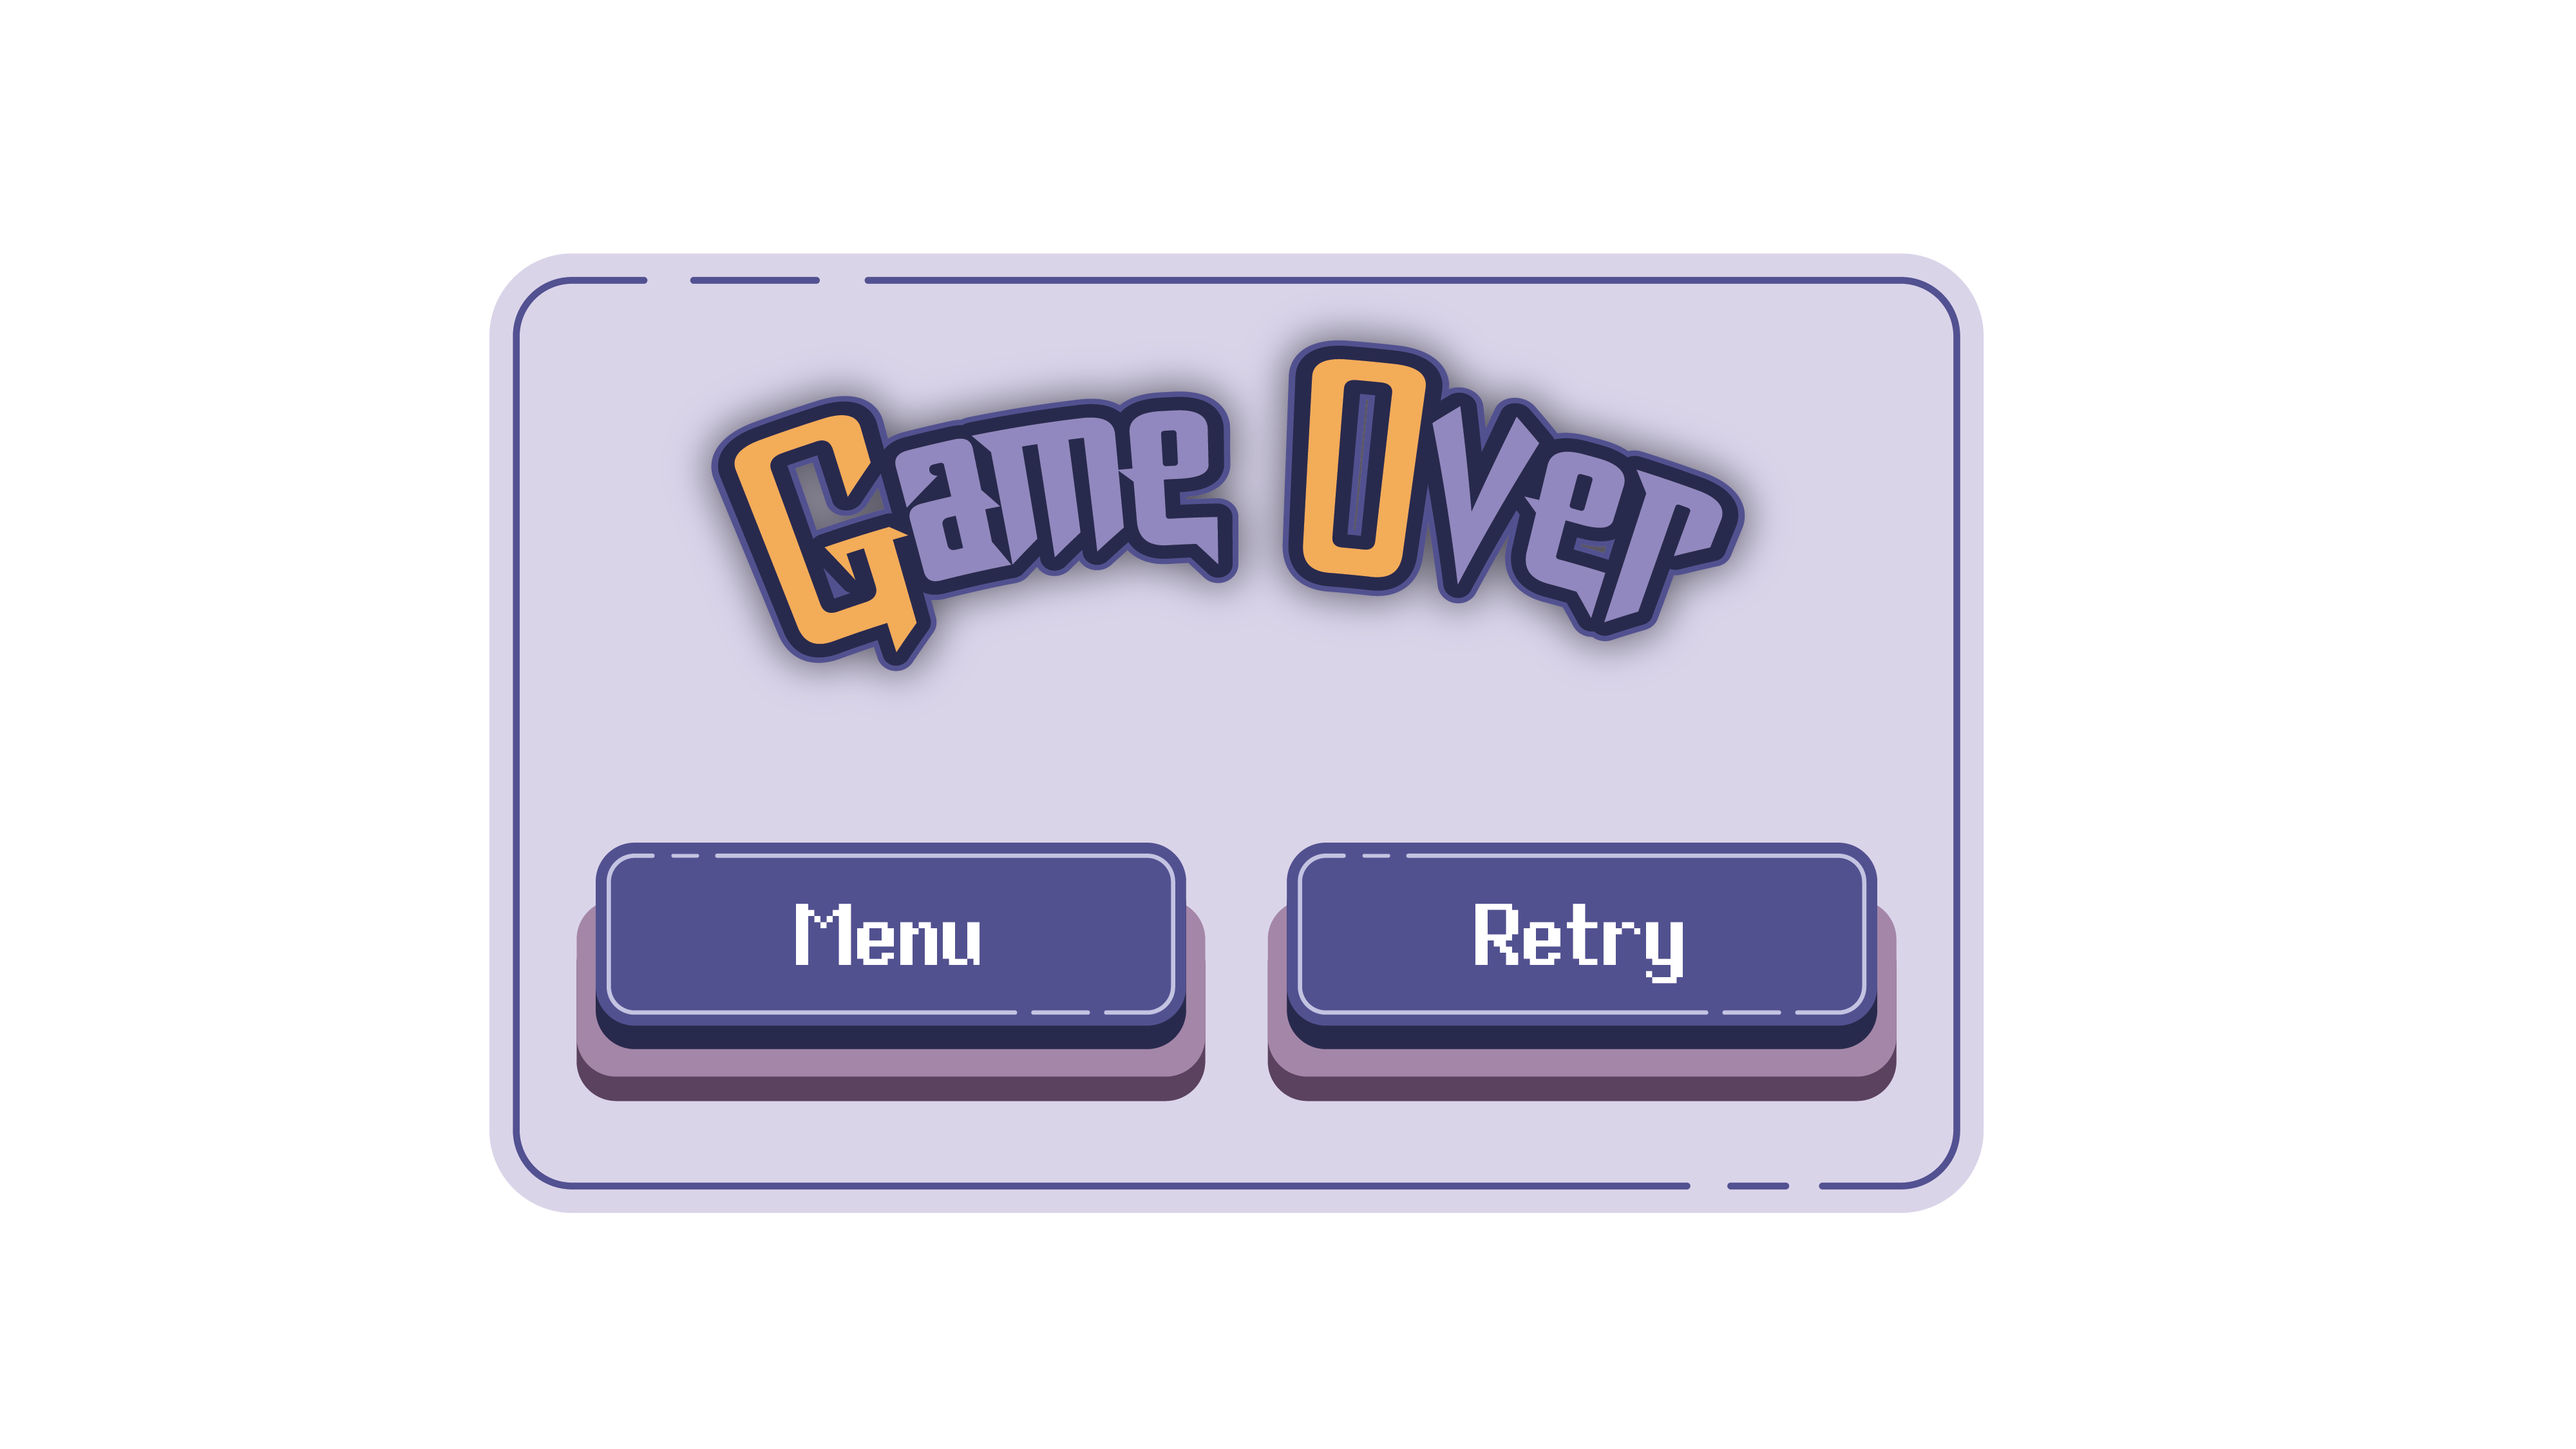
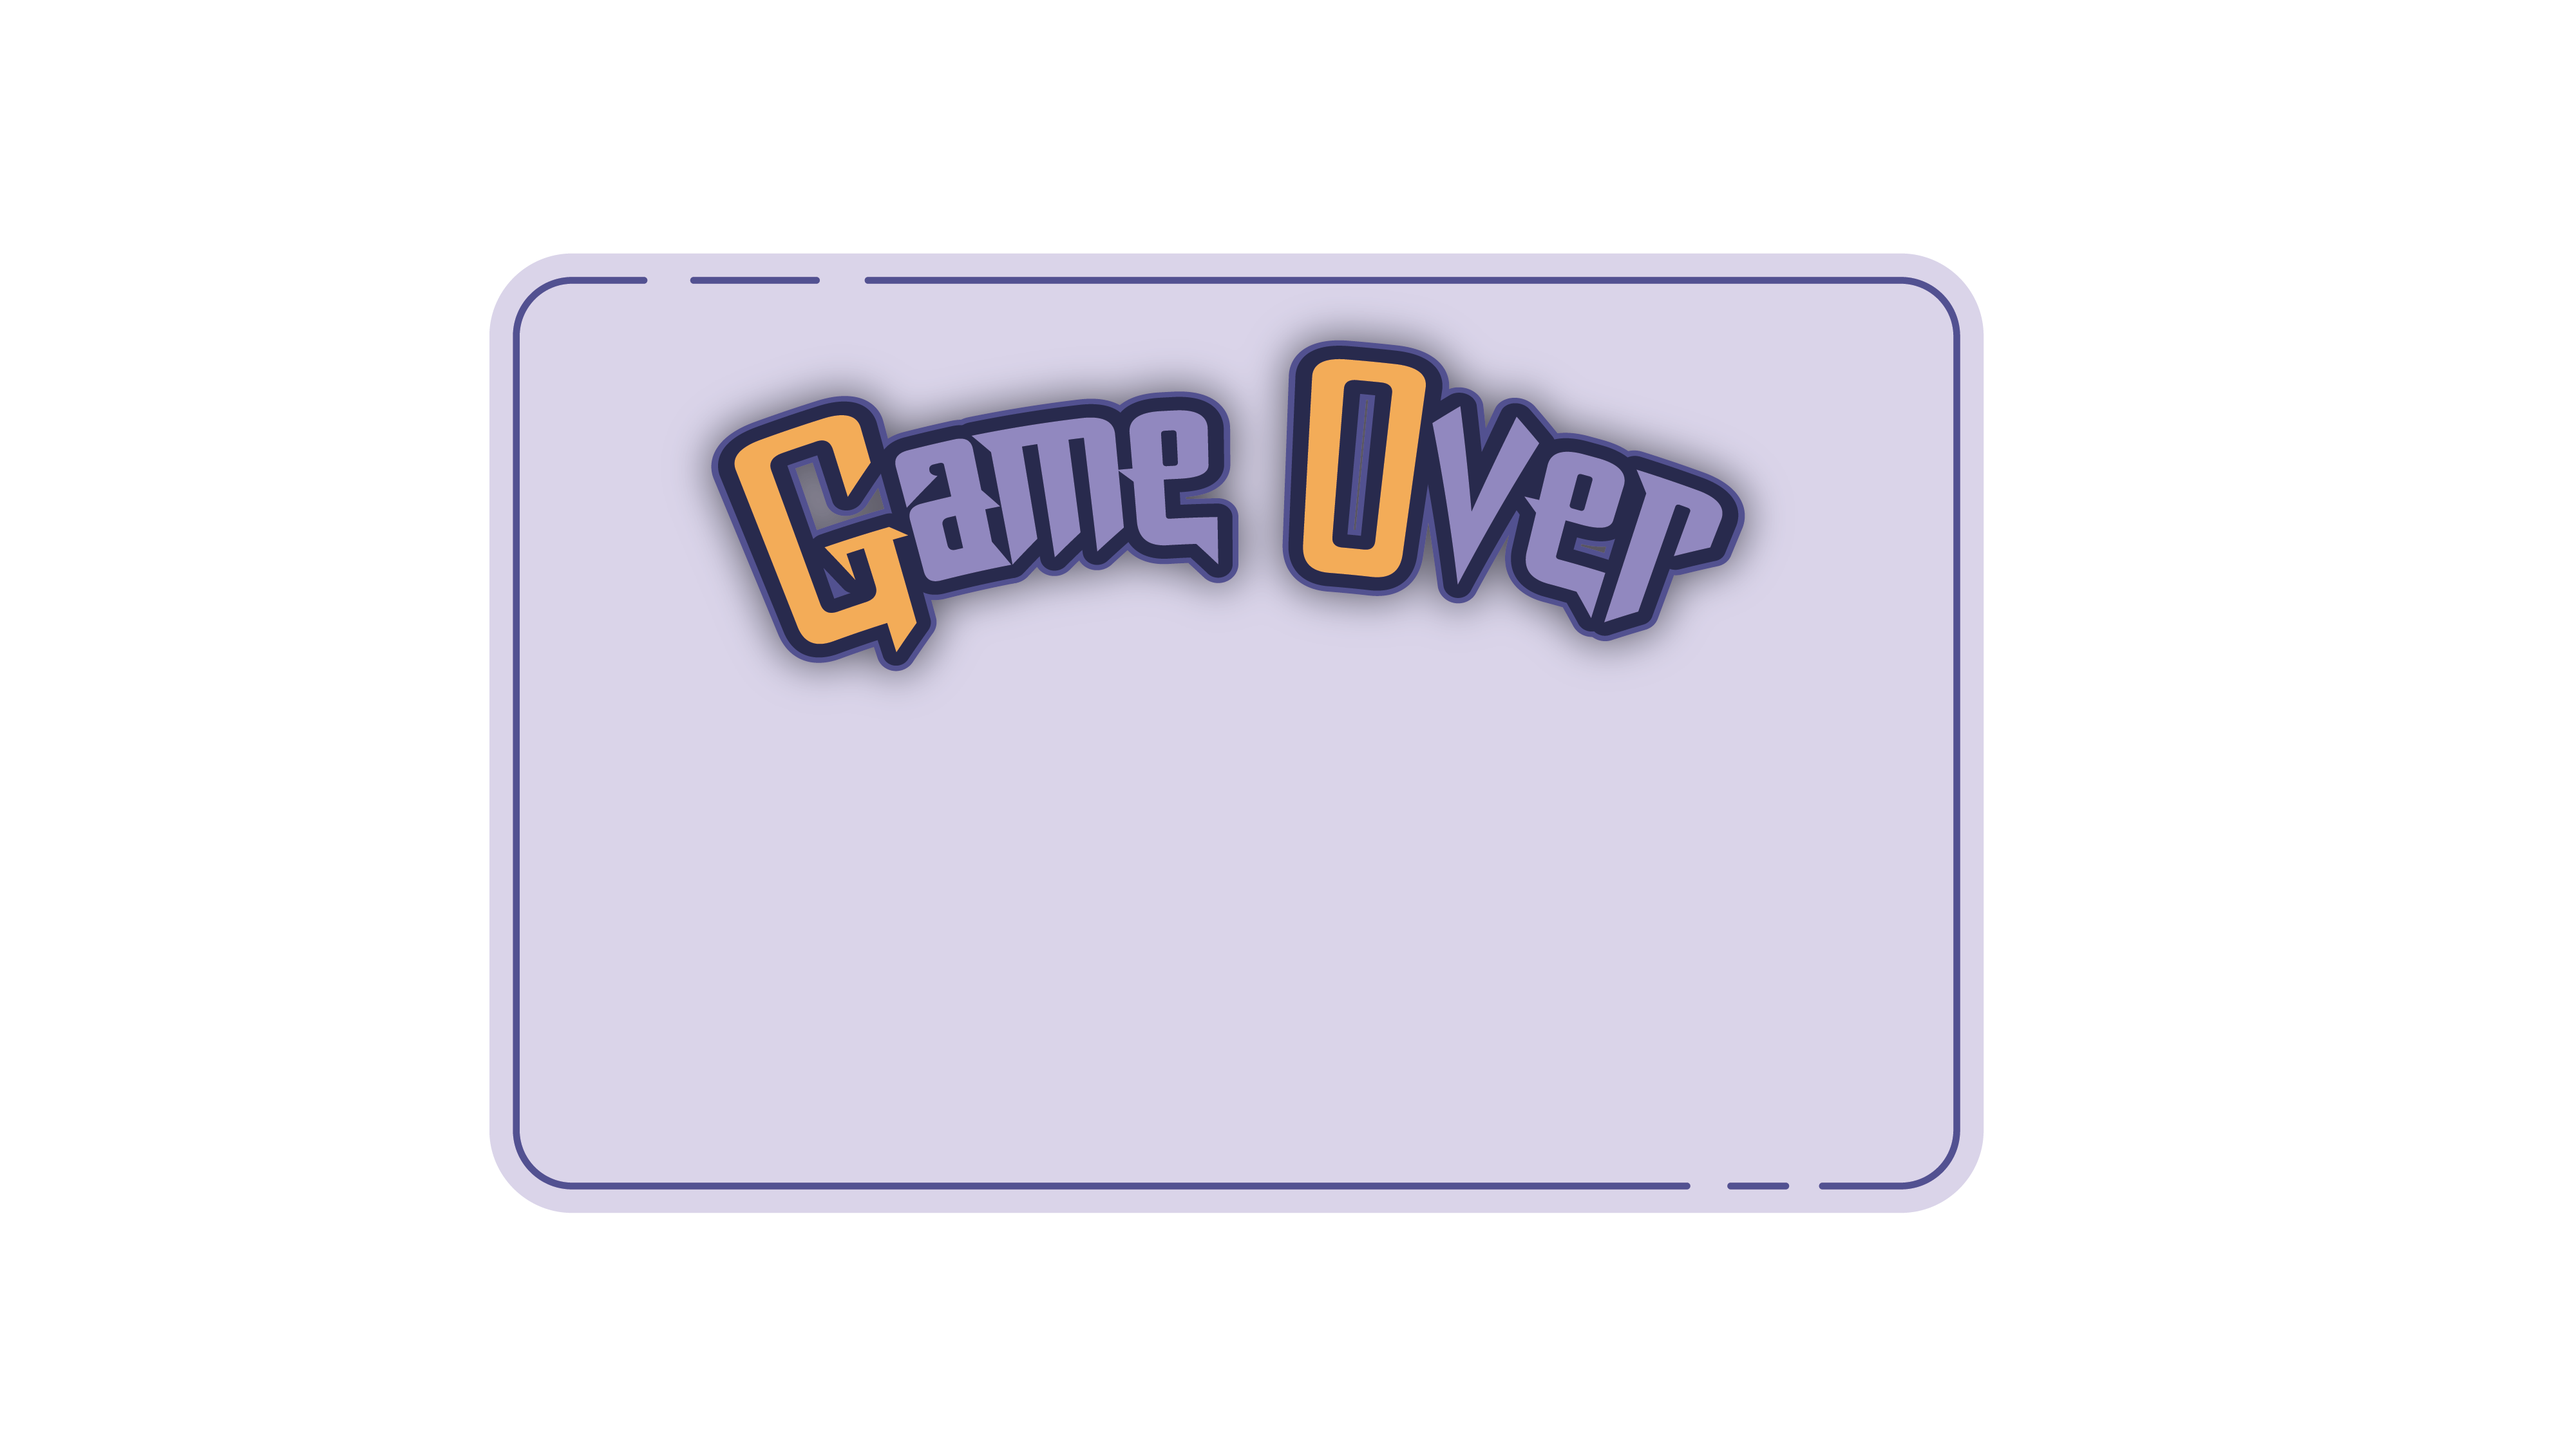
Menu gameover proto fait

Changed region(s): [[0.2188, 0.5598, 0.75, 0.7774]]

diff --git a/MistaleGameJam1/Assets/Scripts/Spawner.cs b/MistaleGameJam1/Assets/Scripts/Spawner.cs
@@ -1,0 +1,28 @@
+using System.Collections;
+using System.Collections.Generic;
+using UnityEngine;
+
+public class Spawner : MonoBehaviour
+{
+    [SerializeField] private List<GameObject> obstacles;
+
+    // Start is called before the first frame update
+    void Start()
+    {
+
+        StartCoroutine(SpawningManager());
+    }
+
+    IEnumerator SpawningManager()
+    {
+        yield return new WaitForSeconds(1f);
+        Instantiate(obstacles[Random.Range(0,obstacles.Count)], transform.position, Quaternion.identity);
+        StartCoroutine(SpawningManager());
+    }
+
+    // Update is called once per frame
+    void Update()
+    {
+        
+    }
+}

diff --git a/MistaleGameJam1/Assets/DeathDetector.cs b/MistaleGameJam1/Assets/DeathDetector.cs
@@ -1,0 +1,29 @@
+using System.Collections;
+using System.Collections.Generic;
+using UnityEngine;
+using UnityEngine.SceneManagement;
+
+public class DeathDetector : MonoBehaviour
+{
+    public static bool isPlayerDed;
+
+    private void Start()
+    {
+        isPlayerDed = false;
+    }
+
+    private void Update()
+    {
+        if (isPlayerDed)
+        {
+            if (Input.GetKey("escape"))
+            {
+                SceneManager.LoadScene("Menu");
+            }
+            if (Input.GetKey("r"))
+            {
+                SceneManager.LoadScene("Proto");
+            }
+        }
+    }
+}

diff --git a/MistaleGameJam1/Assets/Scripts/Character/PlayersHP.cs b/MistaleGameJam1/Assets/Scripts/Character/PlayersHP.cs
@@ -17,6 +17,7 @@ public class PlayersHP : MonoBehaviour
     IEnumerator Death()
     {
         yield return new WaitForSeconds(1f);
+        DeathDetector.isPlayerDed = true;
         Destroy(gameObject);
     }
 
